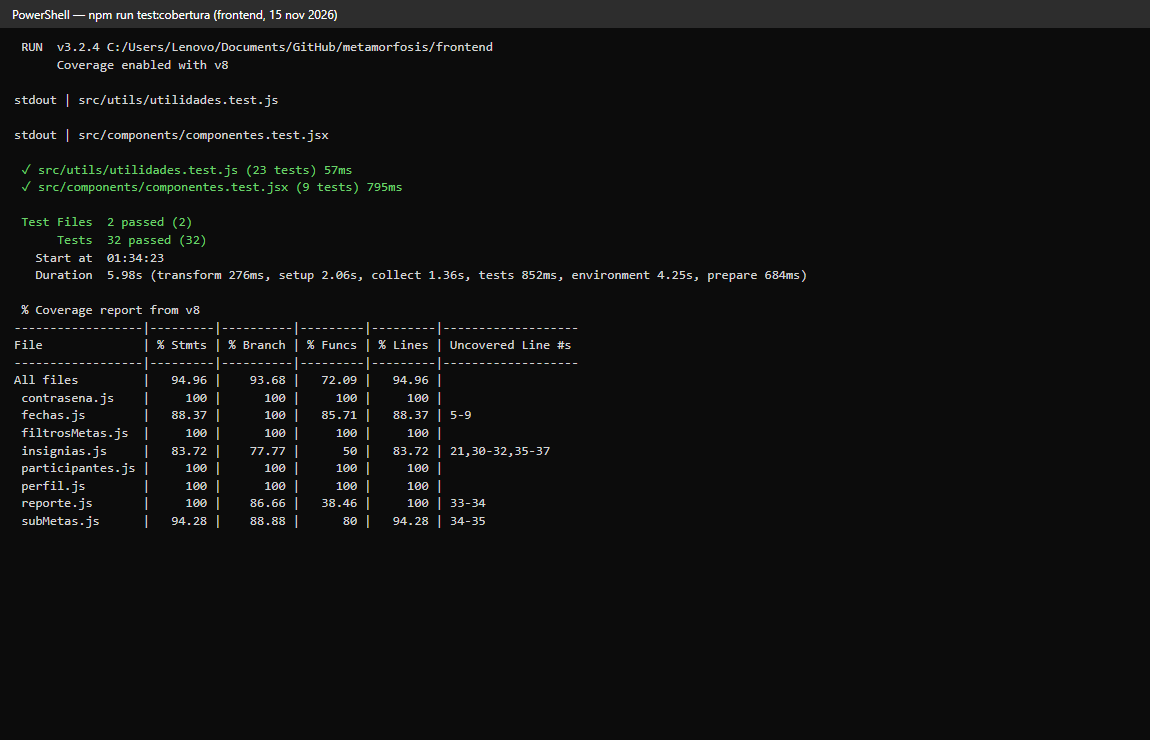
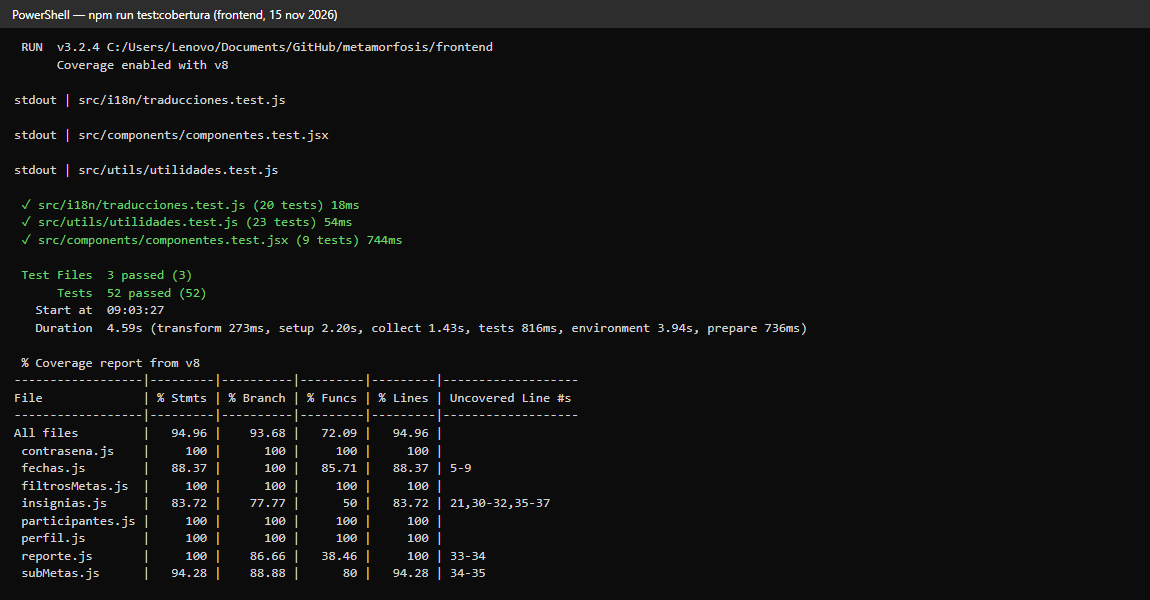
docs: sección 11 de internacionalización y prueba de paridad de traducciones
- frontend/src/i18n/traducciones.test.js: los dos idiomas tienen los mismos 17
  archivos y las mismas claves (952), sin textos vacíos. Vitest: 52 pruebas.
- Evidencias: inicio de sesión de la app desplegada en español e inglés y la API
  respondiendo según Accept-Language.
- PLANES_DE_PRUEBA.md: sección 11 completa y cifras del frontend al día.

Changed region(s): [[0.0, 0.0, 1.0, 0.96]]

diff --git a/frontend/src/i18n/traducciones.test.js b/frontend/src/i18n/traducciones.test.js
@@ -1,0 +1,38 @@
+import { describe, expect, it } from 'vitest';
+
+// Internacionalización: los dos idiomas tienen los mismos archivos y las mismas claves,
+// así ningún texto queda sin traducir ni se muestra la clave en pantalla.
+const es = import.meta.glob('./es/*.json', { eager: true, import: 'default' });
+const en = import.meta.glob('./en/*.json', { eager: true, import: 'default' });
+
+const archivo = (ruta) => ruta.split('/').pop();
+const claves = (objeto, prefijo = '') => Object.entries(objeto).flatMap(([k, v]) =>
+  (v && typeof v === 'object' && !Array.isArray(v) ? claves(v, `${prefijo}${k}.`) : [`${prefijo}${k}`]));
+const porArchivo = (archivos) => Object.fromEntries(Object.entries(archivos).map(([r, v]) => [archivo(r), v]));
+
+describe('Internacionalización · paridad de traducciones', () => {
+  const textosEs = porArchivo(es);
+  const textosEn = porArchivo(en);
+
+  it('español e inglés tienen los mismos archivos', () => {
+    expect(Object.keys(textosEn).sort()).toEqual(Object.keys(textosEs).sort());
+  });
+
+  it.each(Object.keys(textosEs))('%s tiene las mismas claves en los dos idiomas', (nombre) => {
+    expect(claves(textosEn[nombre]).sort()).toEqual(claves(textosEs[nombre]).sort());
+  });
+
+  it('ningún texto en inglés quedó vacío', () => {
+    const vacios = Object.entries(textosEn).flatMap(([nombre, textos]) =>
+      claves(textos).filter((c) => c.split('.').reduce((o, k) => o?.[k], textos) === '').map((c) => `${nombre}: ${c}`));
+    expect(vacios).toEqual([]);
+  });
+
+  it('las listas (días y meses) tienen el mismo largo en los dos idiomas', () => {
+    const { fechas: fEs } = textosEs['comun.json'];
+    const { fechas: fEn } = textosEn['comun.json'];
+    for (const lista of ['diasCortos', 'diasLargos', 'mesesCortos', 'mesesLargos']) {
+      expect(fEn[lista]).toHaveLength(fEs[lista].length);
+    }
+  });
+});

diff --git a/docs/Pruebas/PLANES_DE_PRUEBA.md b/docs/Pruebas/PLANES_DE_PRUEBA.md
@@ -9,7 +9,7 @@ Las salidas completas están en `docs/Evidencias entrega final/datos/`.
 
 ## 10. Evidencia de la ejecución de pruebas
 
-Cada HU se prueba con casos de caja negra, caja blanca e integración, y el responsable de cada HU los diseña y ejecuta. Daniel, como QA, define el formato y consolida la evidencia del equipo. En la entrega final las pruebas quedaron automatizadas en tres suites que se repiten con un solo comando: las pruebas unitarias de caja blanca del backend (JUnit 5 y Mockito), las pruebas de caja negra e integración de los web services (colección de Postman ejecutada con Newman contra la API y PostgreSQL) y las pruebas unitarias y de componentes del frontend (Vitest y React Testing Library). Lo que no está automatizado, como el recorrido visual de cada pantalla, se prueba a mano en el navegador.
+Cada HU se prueba con casos de caja negra, caja blanca e integración, y el responsable de cada HU los diseña y ejecuta. Daniel, como QA, define el formato y consolida la evidencia del equipo. En la entrega final las pruebas quedaron automatizadas en tres suites que se repiten con un solo comando: las pruebas unitarias de caja blanca del backend (JUnit 5 y Mockito), las pruebas de caja negra e integración de los web services (colección de Postman ejecutada con Newman contra la API y PostgreSQL) y las pruebas unitarias y de componentes del frontend (Vitest y React Testing Library), que incluyen la paridad de las traducciones. Lo que no está automatizado, como el recorrido visual de cada pantalla, se prueba a mano en el navegador.
 
 ### 10.1 Herramientas
 
@@ -20,7 +20,7 @@ Cada HU se prueba con casos de caja negra, caja blanca e integración, y el resp
 | Cobertura del backend | JaCoCo 0.8.13 | Instrucciones, ramas y líneas cubiertas | `mvnw verify` (informe en `backend/target/site/jacoco/index.html`) |
 | Web services (caja negra e integración) | Postman y Newman | Filtro JWT, controlador, servicio y PostgreSQL: código HTTP, mensaje y datos de cada respuesta | `newman run docs/Pruebas/postman/Metamorfosis.postman_collection.json -e docs/Pruebas/postman/local.postman_environment.json` |
 | Log de auditoría | Consulta SQL a `log_actividad` | Que cada acción deja su fila EXITO o ERROR | `select accion, resultado, count(*) from log_actividad group by 1, 2` |
-| Unitarias y de componentes del frontend | Vitest, React Testing Library y jsdom | Utilidades de `src/utils` y los componentes de HU6 y HU27 | `npm test` / `npm run test:cobertura` |
+| Unitarias y de componentes del frontend | Vitest, React Testing Library y jsdom | Utilidades de `src/utils`, los componentes de HU6 y HU27 y la paridad de las traducciones | `npm test` / `npm run test:cobertura` |
 | Interfaz | Prueba manual en el navegador | Recorrido de cada pantalla en 375 px y 1280 px y con teclado | — |
 | Accesibilidad | ESLint con `eslint-plugin-jsx-a11y`, Lighthouse y PageSpeed Insights | Reglas del linter y puntaje de accesibilidad (sección 6) | `npm run lint` |
 
@@ -33,7 +33,7 @@ Cada HU se prueba con casos de caja negra, caja blanca e integración, y el resp
 | Pruebas JUnit del backend | 253 pruebas en 29 clases | 0 fallos (`mvnw clean verify`, BUILD SUCCESS) |
 | Cobertura del backend (JaCoCo) | 13.700 instrucciones, 1.038 ramas | 69,3 % de instrucciones, 58,4 % de ramas y 70,0 % de líneas |
 | Colección de Postman | 162 peticiones, 291 aserciones, 23 carpetas | 0 fallos (Newman) |
-| Pruebas del frontend | 32 pruebas en 2 archivos | 0 fallos (Vitest); cobertura de `src/utils`: 95,0 % de sentencias y 93,7 % de ramas |
+| Pruebas del frontend | 52 pruebas en 3 archivos | 0 fallos (Vitest); cobertura de `src/utils`: 95,0 % de sentencias y 93,7 % de ramas |
 | Linter y build del frontend | `npm run lint` y `npm run build` | 0 errores y build correcto |
 | Requisitos: accesibilidad, ofuscación y logs | Ver secciones 6, 7 y 9 | Medidos el 14 de noviembre de 2026 |
 
@@ -73,7 +73,8 @@ Cada HU se prueba con casos de caja negra, caja blanca e integración, y el resp
 | **Total JUnit** | | **253** |
 | `frontend/src/utils/utilidades.test.js` (Vitest) | HU5, HU7, HU8, HU12, HU13, HU22, HU27, HU28, HU32, HU33 | 23 |
 | `frontend/src/components/componentes.test.jsx` (Vitest y React Testing Library) | HU6, HU27 | 9 |
-| **Total frontend** | | **32** |
+| `frontend/src/i18n/traducciones.test.js` (Vitest) | Internacionalización | 20 |
+| **Total frontend** | | **52** |
 
 ### 10.4 Limitaciones conocidas
 
@@ -83,9 +84,57 @@ El aspecto de auditoría (`AuditoriaAspect`) no tiene prueba JUnit propia; se ve
 
 ---
 
-## 11. Nota para la sección de internacionalización
+## 11. Internacionalización (opcional)
 
-**Pruebas.** Los mensajes traducidos y los correos en los dos idiomas se prueban con `TraductorMensajesTest` (8 pruebas), `PlantillasCorreoTest` (4), `PlantillaContrasenaCambiadaTest` (3) y `PlantillaCodigoRecuperacionTest` (3). Las pruebas del frontend corren en español.
+La HU16 («Como usuario quiero poder cambiar el idioma de la app, para usarla en mi idioma preferido») quedó como Won't have en el Sprint 0 y se implementó en la entrega final. La aplicación funciona en español, el idioma por defecto, y en inglés: se traducen la interfaz, los mensajes que devuelve la API y los correos que envía el sistema. El cambio de idioma se aplica al instante, sin recargar la página, y está disponible en la versión desplegada (https://metamorfosis-mu.vercel.app).
+
+### 11.1 Alcance
+
+| Parte | Qué se traduce y cómo |
+|---|---|
+| Interfaz | 952 textos en 17 archivos por idioma (`frontend/src/i18n/es` y `frontend/src/i18n/en`), uno por parte de la app (auth, metas, camino, reporte, perfil…). Se cargan con i18next y react-i18next. |
+| Plurales y valores variables | Claves con plural de i18next (`_one` / `_other`), por ejemplo «1 meta» y «3 metas», y valores variables como `{{nombre}}` o `{{count}}`. |
+| Fechas y números | `Intl.DateTimeFormat` e `Intl.NumberFormat` con la región del idioma: es-CO o en-US («1 nov 2026» / «Nov 1, 2026»). Los nombres de días y meses también están en los archivos de traducción. |
+| Mensajes de la API | Los servicios escriben sus mensajes en español; antes de responder, `TraductorMensajes` los traduce al idioma de la cabecera `Accept-Language` con `i18n/mensajes_en.txt` (121 mensajes, 15 con partes variables como nombres o números). Se aplica a los errores de `ManejadorExcepciones` y al 401 de `SeguridadConfig`. |
+| Correos | Las cuatro plantillas (autorización del registro, invitación a una meta, aviso de contraseña cambiada y código de recuperación) tienen sus textos en español y en inglés; el correo sale en el idioma de la petición que lo origina. |
+| Datos del catálogo | Los nombres y descripciones de las insignias vienen del servidor en español; el frontend los traduce por su ícono y, si no hay traducción, muestra el texto del servidor. |
+| Accesibilidad | Al cambiar de idioma se actualizan el atributo `lang` del documento y el título de la página, para que los lectores de pantalla pronuncien en el idioma correcto; cada opción del selector declara su propio `lang`. |
+
+### 11.2 Selección del idioma
+
+El selector de idioma está en el encabezado de la app en escritorio, dentro del menú de la cuenta en el celular y en el encabezado de las pantallas de inicio de sesión y registro. La elección se guarda en el navegador (clave `metamorfosis.idioma` de localStorage). Si no hay una elección guardada, se usa el idioma del navegador y, si no es español ni inglés, el español. Las variantes regionales cuentan como su idioma: es-CO o es-MX se tratan como español.
+
+Cada petición del frontend a la API envía el idioma activo en la cabecera `Accept-Language`. En el backend, `IdiomaConfig` resuelve el idioma con `AcceptHeaderLocaleResolver`: acepta español e inglés y, sin cabecera o con otro idioma, responde en español.
+
+### 11.3 Componentes
+
+| Componente | Archivo | Responsabilidad |
+|---|---|---|
+| Configuración de i18next | `frontend/src/i18n/index.js` | Carga los archivos de los dos idiomas, detecta el idioma, actualiza `lang` y el título y arma la cabecera `Accept-Language`. |
+| Selector de idioma | `frontend/src/components/SelectorIdioma.jsx` | Lista desplegable ES · Español / EN · English; el cambio se aplica al instante. |
+| Textos de la interfaz | `frontend/src/i18n/es/*.json` y `frontend/src/i18n/en/*.json` | 952 textos por idioma. |
+| Resolución del idioma | `backend/.../config/IdiomaConfig.java` | Idioma de cada petición a partir de `Accept-Language`. |
+| Traducción de mensajes | `backend/.../i18n/TraductorMensajes.java` | Traduce mensajes exactos y plantillas con partes variables; sin traducción, deja el español. |
+| Diccionario | `backend/src/main/resources/i18n/mensajes_en.txt` | Una línea por mensaje: «español => inglés». |
+| Plantillas de correo | `backend/.../service/correo/Plantilla*.java` | Asunto, HTML y texto plano de cada correo en los dos idiomas. |
+
+### 11.4 Pruebas
+
+| Prueba | Qué comprueba | Resultado |
+|---|---|---|
+| `TraductorMensajesTest` (8) | Mensajes fijos y con partes variables, listas de errores, región del idioma, idioma no soportado y mensaje sin traducción | 8 de 8 pasan |
+| `PlantillasCorreoTest` (4) | Correos de autorización e invitación en inglés y en español (también sin idioma) | 4 de 4 pasan |
+| `PlantillaContrasenaCambiadaTest` (3) y `PlantillaCodigoRecuperacionTest` (3) | Correos de HU32 y HU33 en los dos idiomas, con el nombre escapado en el HTML | 6 de 6 pasan |
+| `traducciones.test.js` (Vitest, 20) | Los dos idiomas tienen los mismos 17 archivos y las mismas claves, ningún texto en inglés está vacío y las listas de días y meses tienen el mismo largo | 20 de 20 pasan |
+| API con `Accept-Language` es y en | 401 «Autenticación requerida» / «Authentication required» y los errores de validación en cada idioma | Comprobado |
+| App desplegada en Vercel | La pantalla de inicio de sesión se muestra en el idioma del navegador | Comprobado |
+| Prueba manual en el navegador | Mis metas, el reporte y el inicio de sesión en inglés | Comprobado (14 nov) |
+
+### 11.5 Cómo agregar otro idioma
+
+El diseño permite sumar un idioma sin tocar las pantallas. En el frontend hay que crear la carpeta `frontend/src/i18n/<código>` con los mismos 17 archivos, agregar el idioma a la lista `IDIOMAS` de `index.js` y extender la prueba de paridad al nuevo idioma. En el backend hay que agregar el `Locale` a `TraductorMensajes.IDIOMAS`, crear `i18n/mensajes_<código>.txt` y sumar los textos del idioma en las cuatro plantillas de correo, que hoy eligen entre español e inglés.
+
+**Evidencia (15 de noviembre de 2026).** Pantalla de inicio de sesión de la app desplegada con el navegador en español y en inglés; respuestas de la API con `Accept-Language` es y en; y, del 14 de noviembre, Mis metas en español y en inglés y el reporte en inglés. Archivos en `docs/Evidencias entrega final/` (`11_*.png` y `datos/api-idiomas.txt`).
 
 ---
 

diff --git a/docs/Evidencias entrega final/README.md b/docs/Evidencias entrega final/README.md
@@ -29,9 +29,11 @@ repartieron entre junio y noviembre para que la gráfica por mes muestre una ten
 | 9 Logs | `09_logs_archivo_aplicacion.png` | `backend/logs/metamorfosis.log`: INFO de arranque y Flyway, WARN del filtro JWT |
 | 10 Pruebas | `10_pruebas_mvnw_verify.png` | `mvnw clean verify` (15 nov): **253 pruebas en 29 clases, 0 fallos**, BUILD SUCCESS |
 | 10 Pruebas | `10_pruebas_cobertura_jacoco.png` | Informe de JaCoCo (15 nov): 69 % de instrucciones, 58 % de ramas |
-| 10 Pruebas | `10_pruebas_frontend_vitest.png` | `npm run test:cobertura` (15 nov): **32 pruebas, 0 fallos**; cobertura de `src/utils` 95 % |
+| 10 Pruebas | `10_pruebas_frontend_vitest.png` | `npm run test:cobertura` (15 nov): **52 pruebas, 0 fallos**; cobertura de `src/utils` 95 % |
 | 10 Pruebas | `10_pruebas_frontend_cobertura.png` | Informe HTML de cobertura de Vitest |
 | 11 Idiomas | `11_idioma_espanol.png`, `11_idioma_ingles*.png` | La app en español y en inglés (Mis metas, reporte, inicio de sesión) |
+| 11 Idiomas | `11_despliegue_login_es.png`, `11_despliegue_login_en.png` | App desplegada en Vercel (15 nov): inicio de sesión con el navegador en español y en inglés, sin iniciar sesión |
+| 11 Idiomas | `11_api_mensajes_es_en.png` | La API responde en el idioma de `Accept-Language` (15 nov); salida completa en `datos/api-idiomas.txt` |
 
 `datos/` tiene las salidas completas: `newman-salida.txt`, `mvnw-verify.txt`, `vitest-salida.txt`, `log_actividad_tras_newman.txt`
 (conteo de filas del log de auditoría después de correr la colección), `npm-lint.txt`, `npm-build.txt` y
